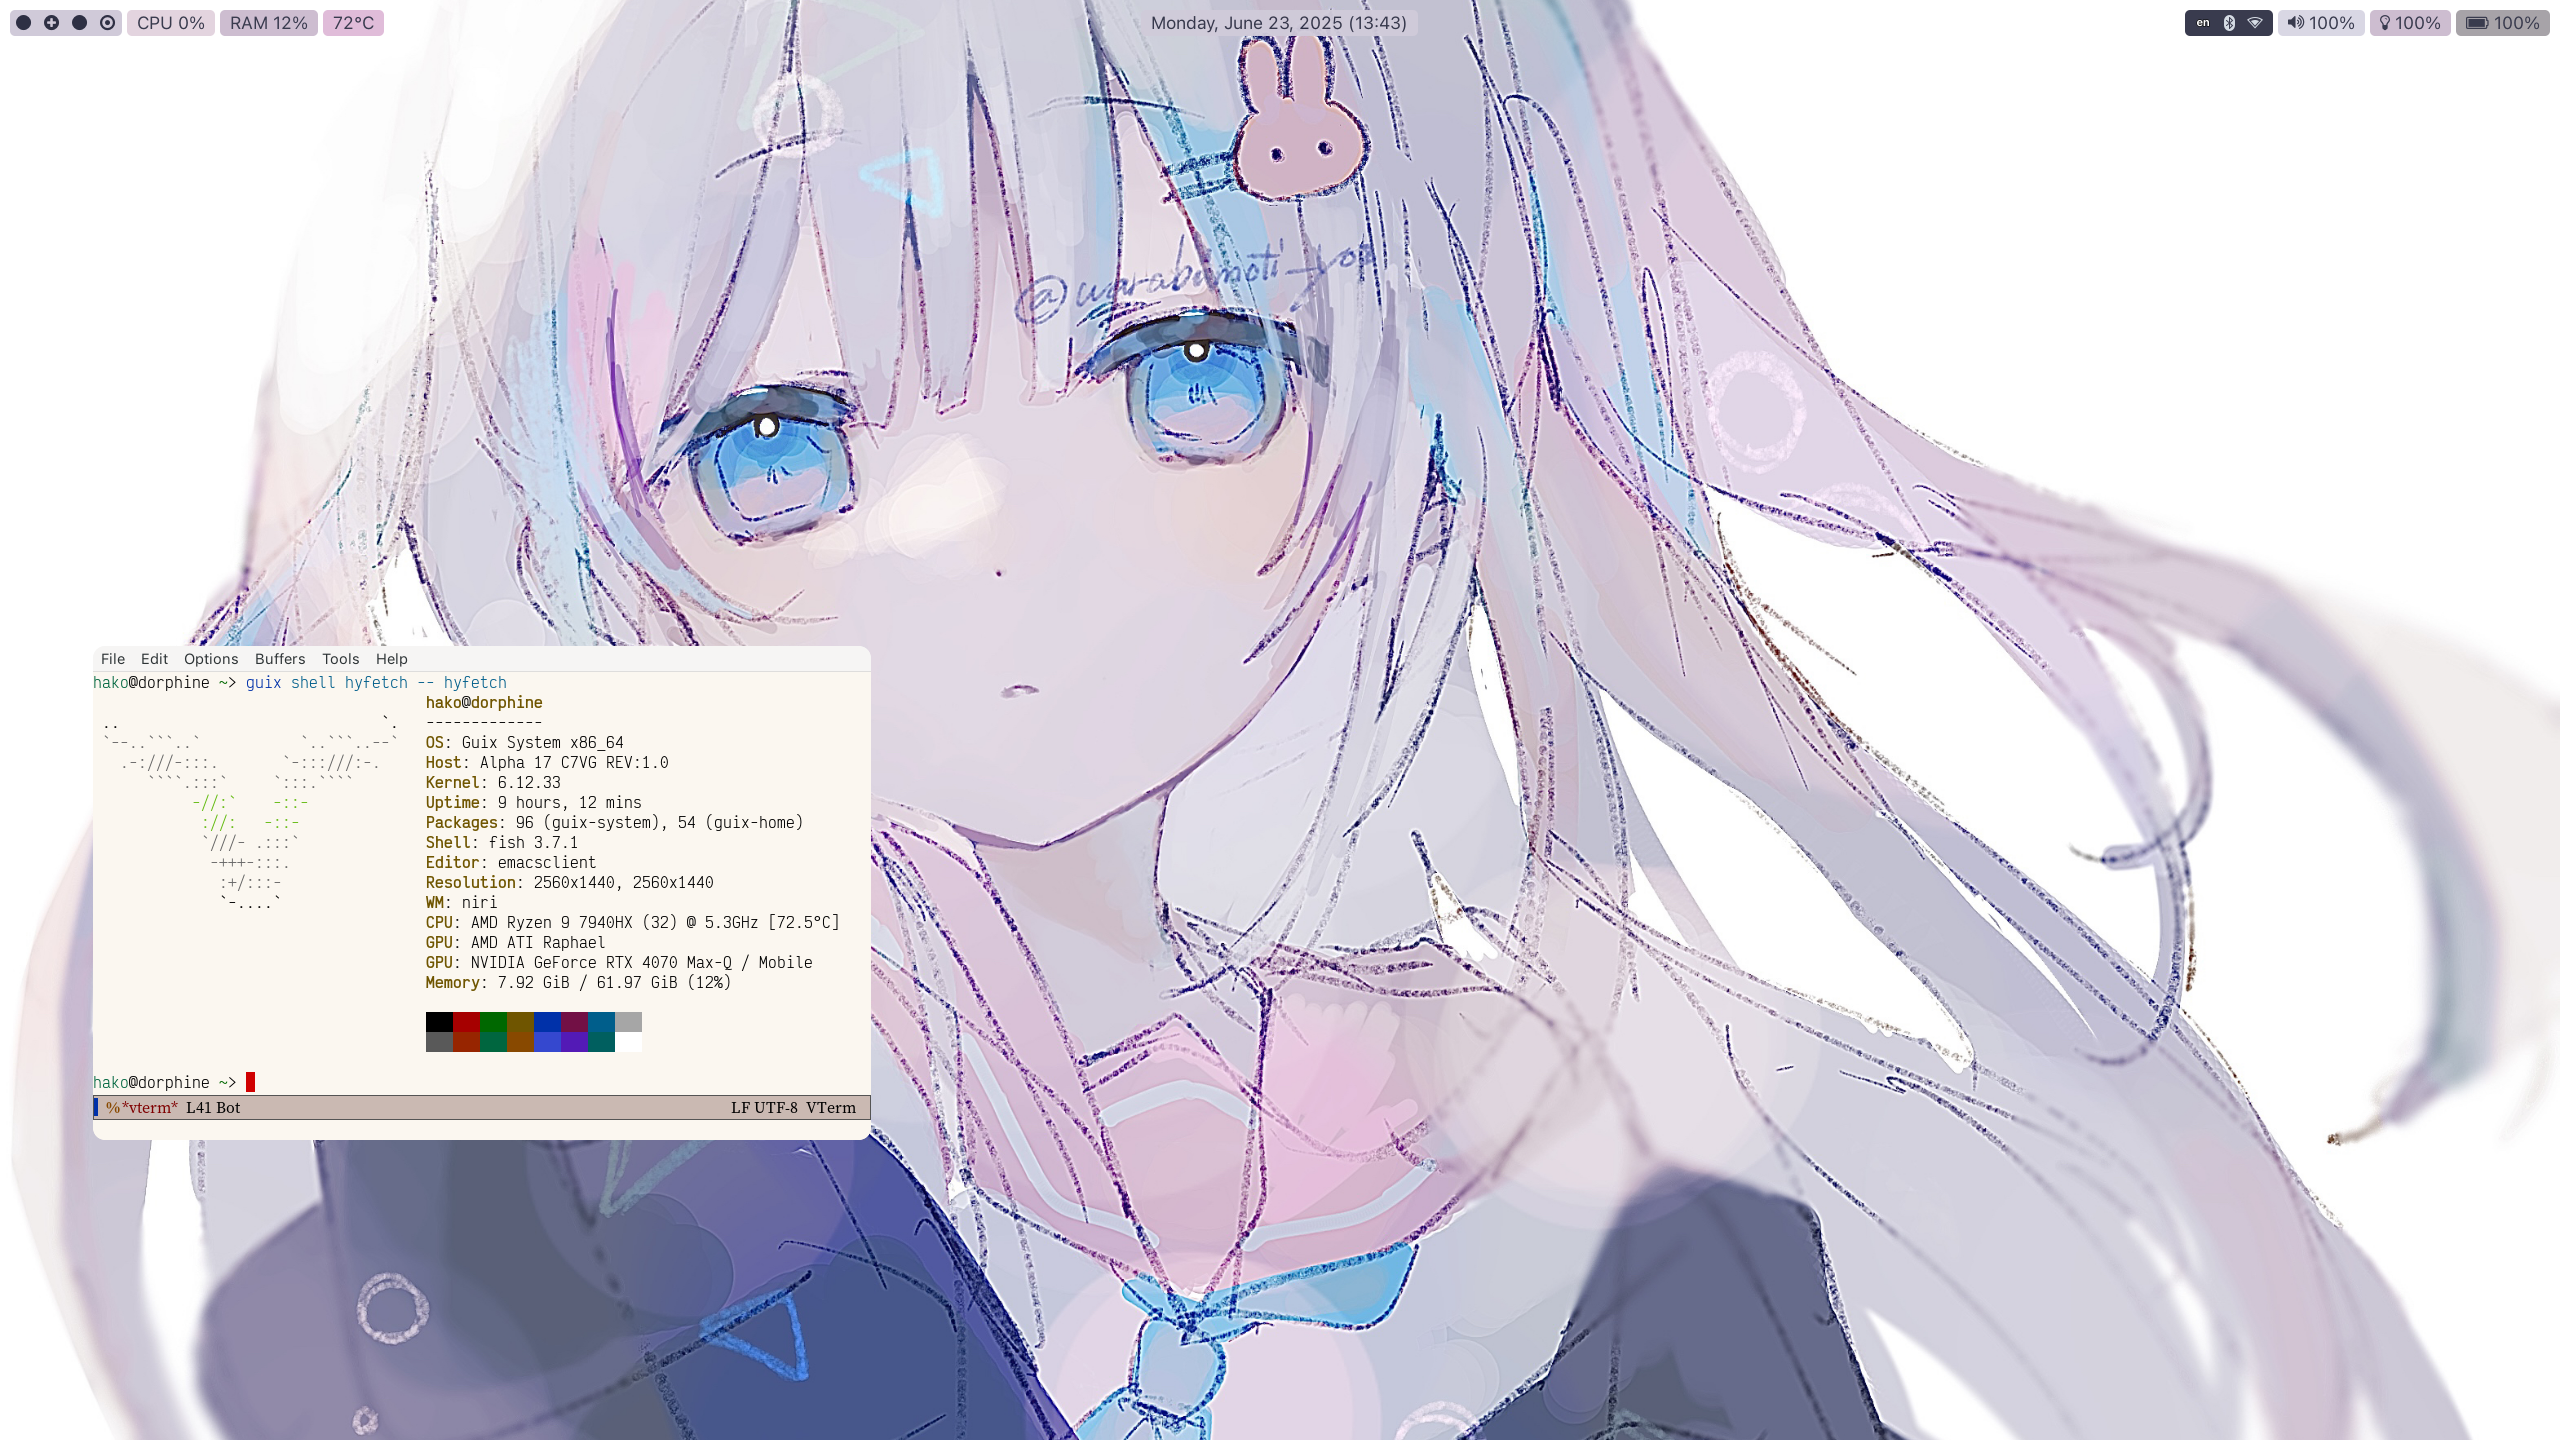
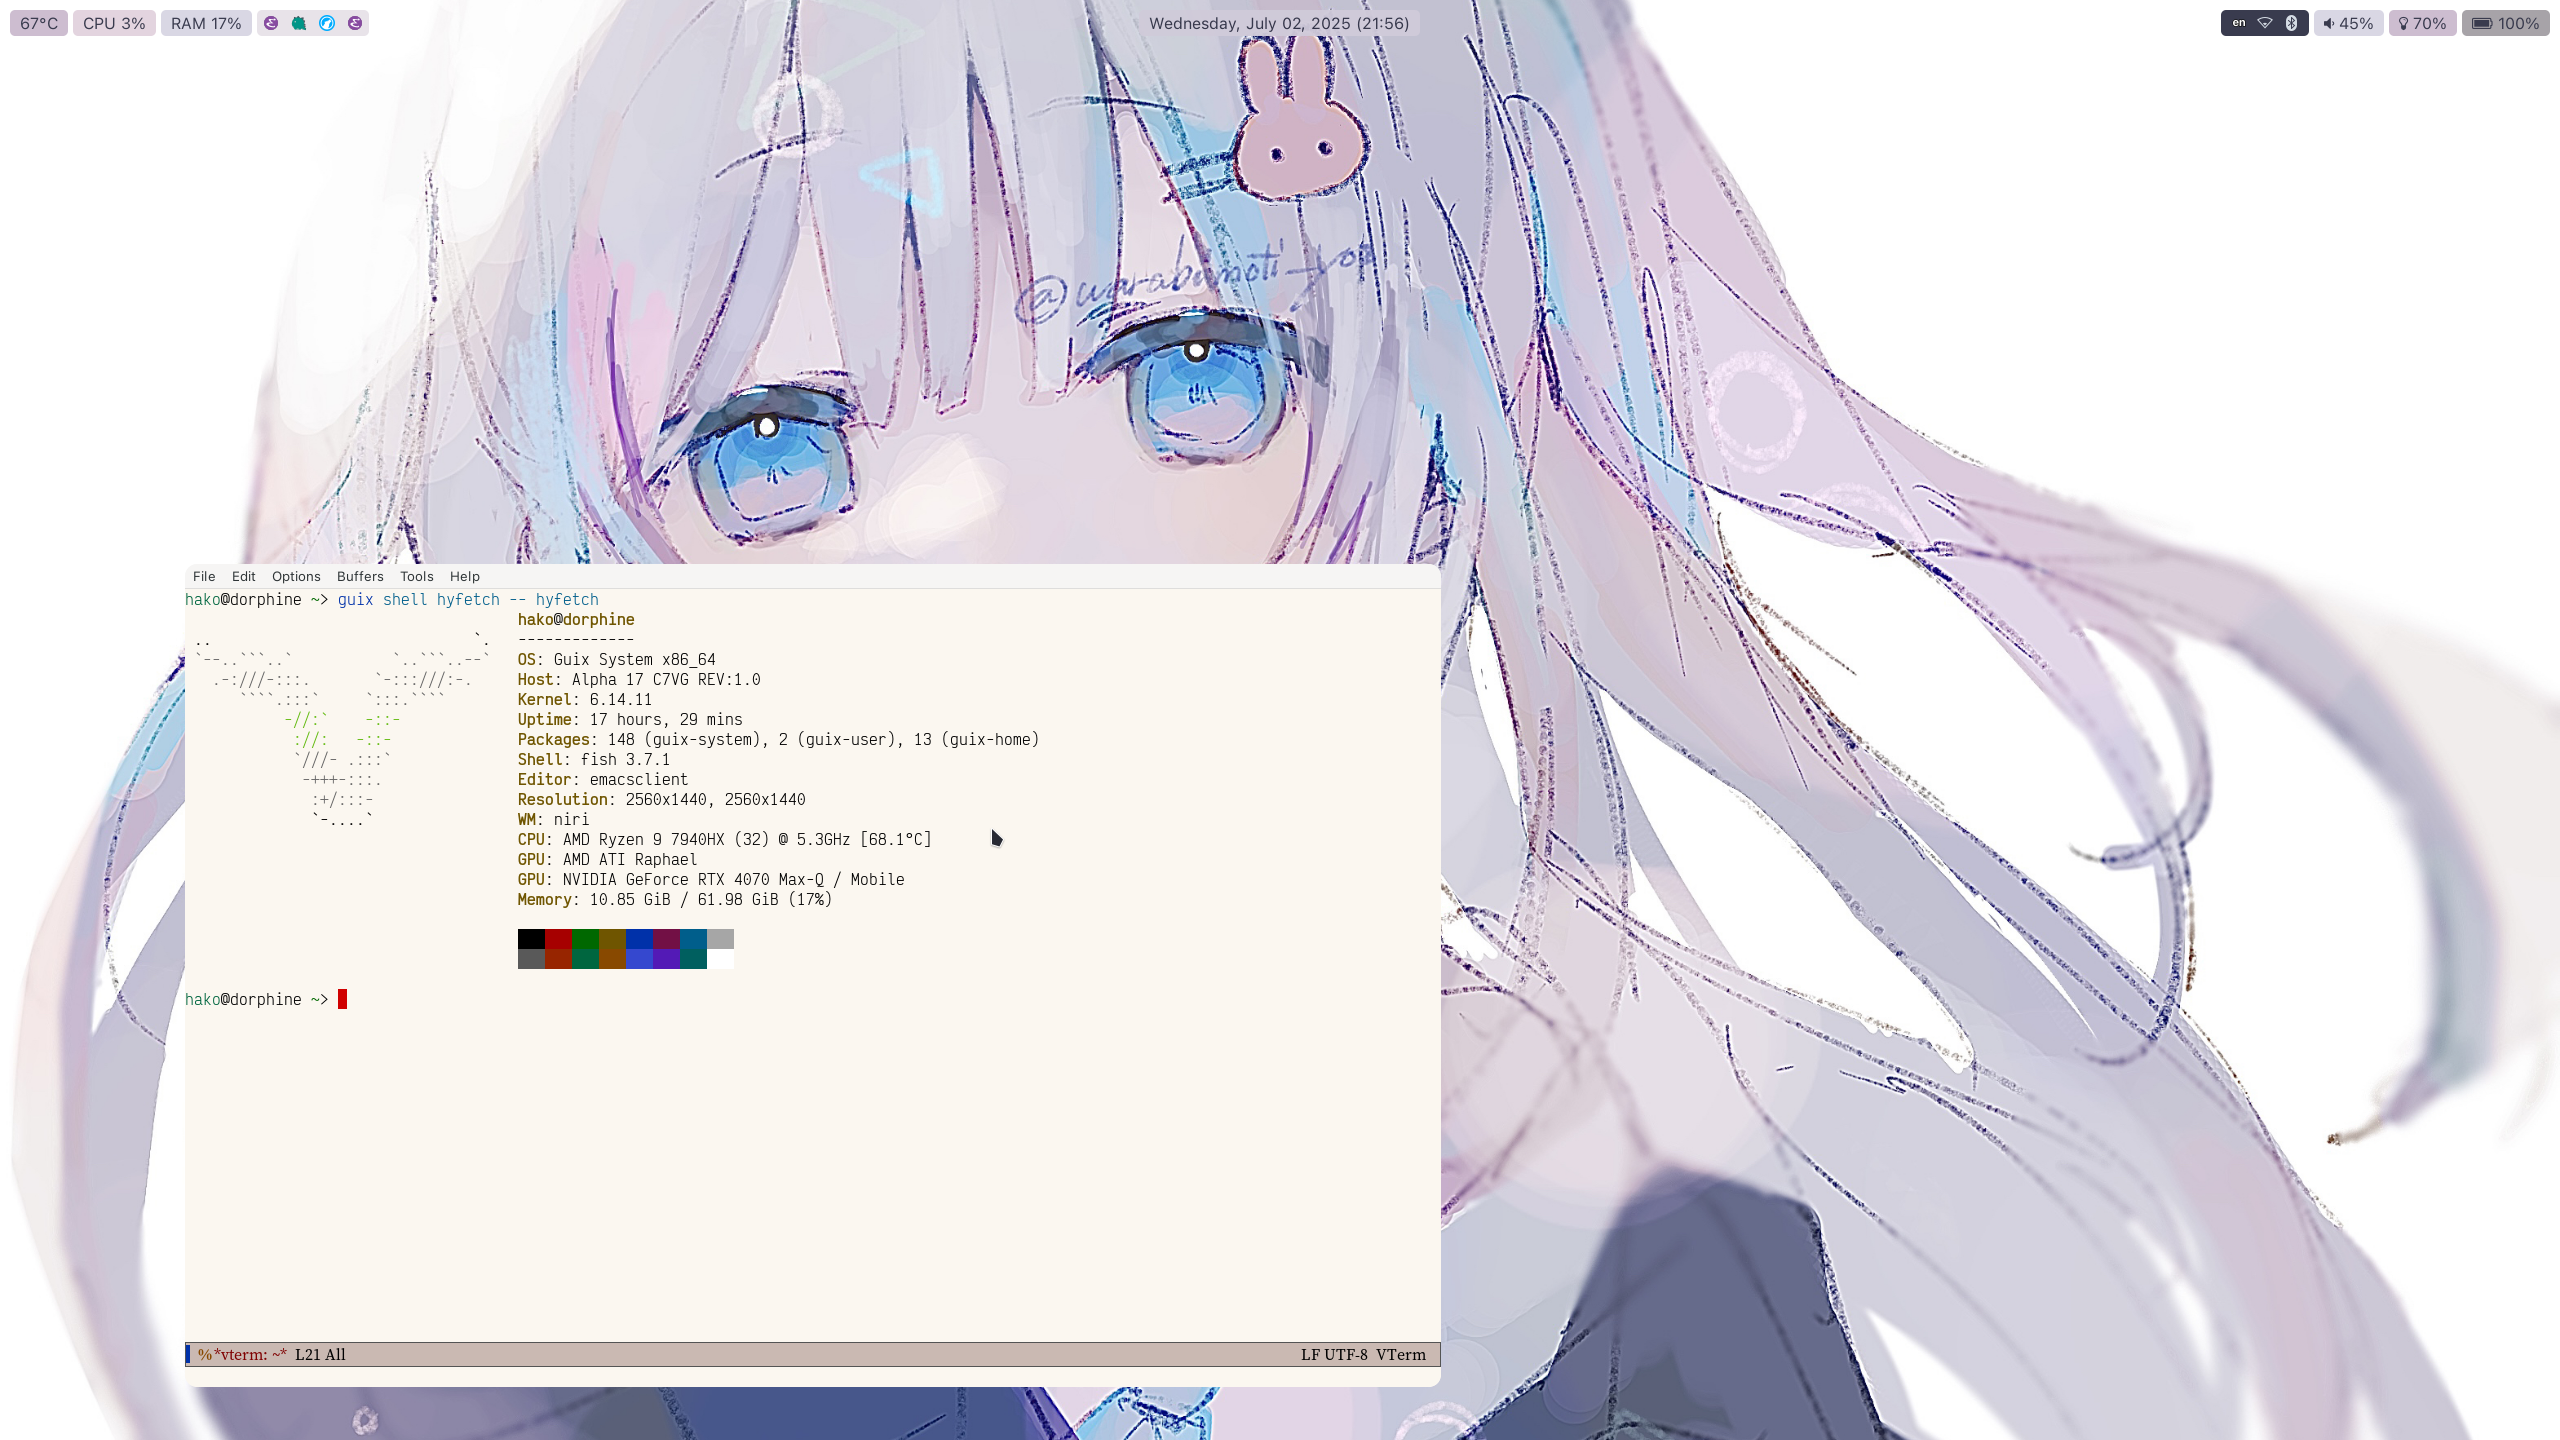
dorphine: waybar: Use taskbar.
* files/plain/waybar.jsonc (modules-left): Add wlr/taskbar.
Re-order temperature.
Remove niri/workspaces.
* files/plain/waybar.css: Adjust accordingly.
* files/plain/dorphine/waybar-colors.css: Update colors.
* README.org: Update screenshots.

diff --git a/files/plain/waybar.css b/files/plain/waybar.css
@@ -33,9 +33,9 @@ tooltip label {
     margin: 10px 0 0 10px;
 }
 
+#temperature,
 #cpu,
 #memory,
-#temperature,
 #clock,
 #tray,
 #wireplumber,
@@ -46,8 +46,16 @@ tooltip label {
     opacity: 0.95;
 }
 
-#workspaces button {
+#taskbar {
     color: @bg2;
+    background-color: @bg1;
+}
+
+#taskbar.empty {
+    background: transparent;
+}
+
+#taskbar button {
     padding: 0 5px;
 }
 
@@ -85,7 +93,7 @@ tooltip label {
     background-color: @green;
 }
 
-#workspaces {
+#temperature {
     background-color: @color0;
 }
 
@@ -97,22 +105,18 @@ tooltip label {
     background-color: @color2;
 }
 
-#temperature {
+#clock {
     background-color: @color3;
 }
 
-#clock {
+#wireplumber {
     background-color: @color4;
 }
 
-#wireplumber {
+#backlight {
     background-color: @color5;
 }
 
-#backlight {
-    background-color: @color6;
-}
-
 #battery {
-    background-color: @color7;
+    background-color: @color6;
 }

diff --git a/files/plain/dorphine/waybar-colors.css b/files/plain/dorphine/waybar-colors.css
@@ -6,15 +6,13 @@
 
 @define-color red    #EC7875;
 @define-color green  #A3BE8C;
-@define-color blue   #75A4CD;
 
 /* Execute ‘guix shell python-pywal imagemagick -- wal -nstei <image>’, */
 /* then select colors from ‘~/.cache/wal/colors-waybar.css’. */
-@define-color color0 #D0CAD9;
+@define-color color0 #CAB9CE;
 @define-color color1 #E2D2DD;
-@define-color color2 #CAB9CE;
-@define-color color3 #DEB8D7;
-@define-color color4 #D0CAD9;
-@define-color color5 #D7D5E3;
-@define-color color6 #CAB9CE;
-@define-color color7 #A29EA3;
+@define-color color2 #D7D5E3;
+@define-color color3 #D0CAD9;
+@define-color color4 #D7D5E3;
+@define-color color5 #CAB9CE;
+@define-color color6 #A29EA3;
